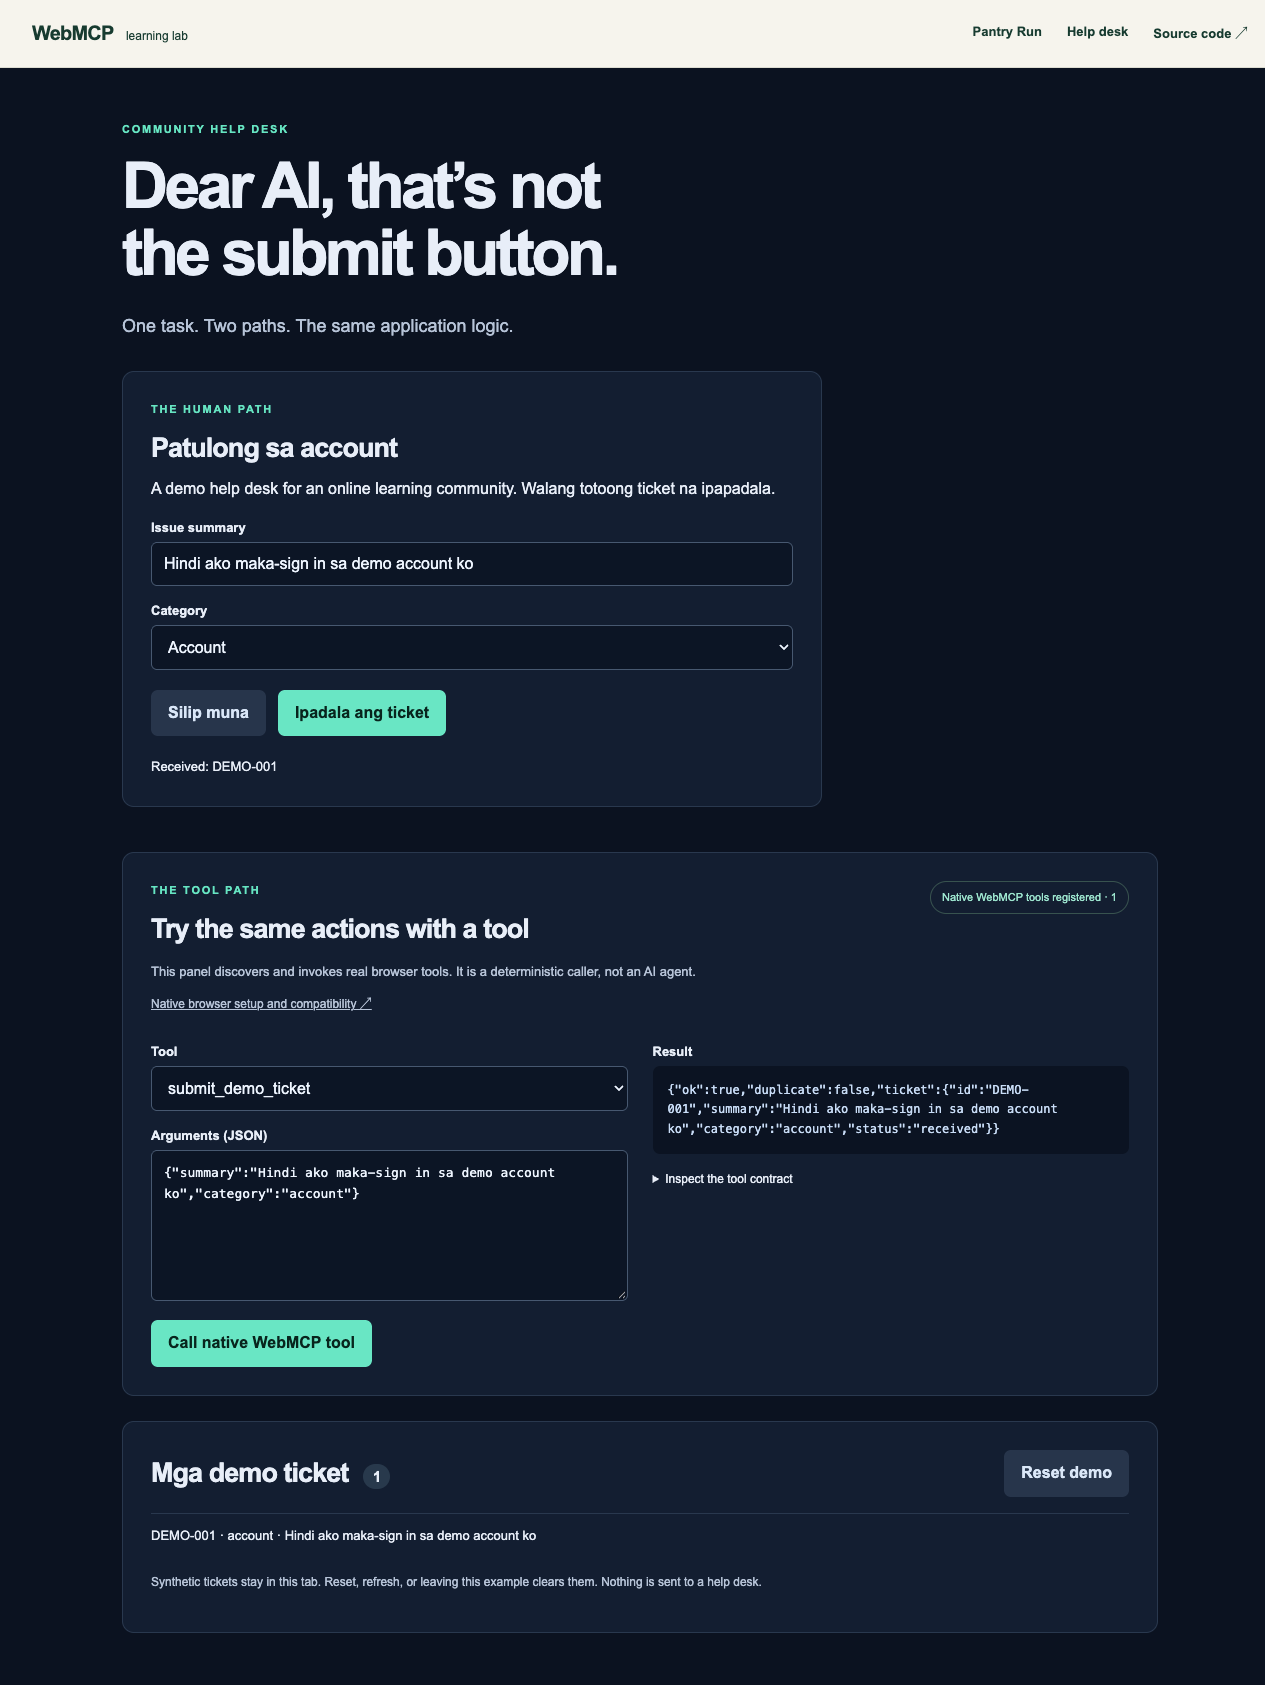
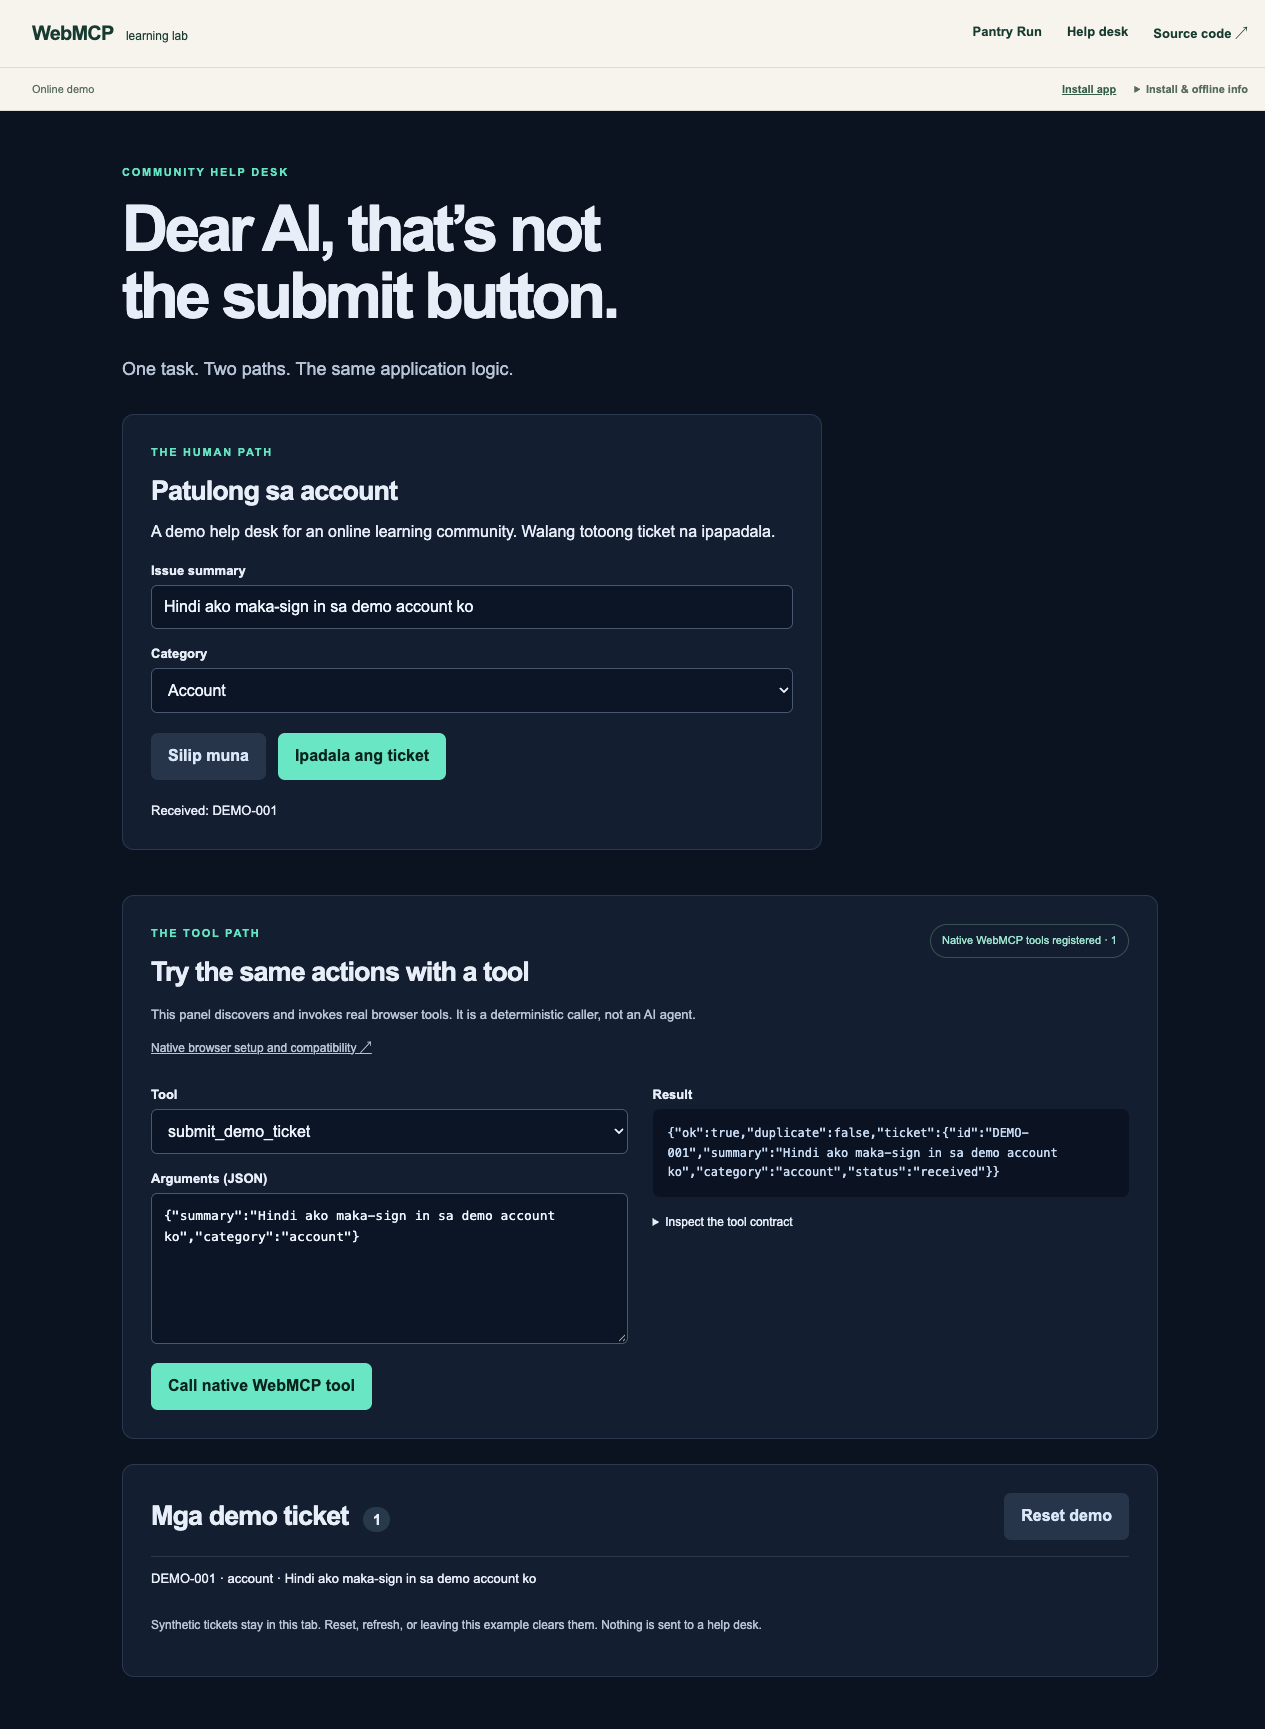
Document verified public deployment and PWA browser checks

diff --git a/docs/VERIFICATION.md b/docs/VERIFICATION.md
@@ -45,10 +45,18 @@ Reviewed desktop (1280 × 1000 viewport, full page) and mobile (390 × 844 viewp
 
 The screenshot files show deterministic native test calls, not an LLM conversation.
 
+## Public deployment checks
+
+After owner-approved removal of Vercel Authentication for this project only, verified [the production site](https://webmcp-learning-lab.vercel.app) without cookies or authentication. `/`, `/shop`, `/help-desk`, `/manifest.webmanifest`, `/sw.js`, `/offline.html`, and 192px/512px icons returned HTTP 200 with expected content types. The worker has `no-cache, no-store, must-revalidate` headers.
+
+`TEST_BASE_URL=https://webmcp-learning-lab.vercel.app npm run test:browser` passed the full native and fallback suites on the public HTTPS origin: shared UI/tool state, ₱489 review, cancel/invalidation/confirmation, stock and reset/reload, route cleanup, desktop/mobile layouts, browser installability checks, five-file static-only cache, offline explanation/icon, paused writes, review cancellation on disconnect, fresh state after reconnect, and update checks without silent reload. No captured app exceptions or console errors.
+
+Also opened the public site in the ordinary Edge profile: it loads without a login wall, offers **Install app**, correctly labels WebMCP as rehearsal, and shows the expected ₱489 mock review. Native mode was separately tested with the experimental feature explicitly enabled. No real payment, address, or order service exists.
+
 ## Limits
 
 - A real LLM agent's tool discovery, choices, handling of missing information, and browser-extension integration have not been tested. The panel is a deterministic caller.
-- A production Vercel deployment reached READY, but inherited Vercel Authentication redirects unauthenticated visitors to SSO (HTTP 302). Public app-route, PWA, and WebMCP checks are blocked by that access gate. No public-origin trial token or custom HTTPS event domain has been configured. Native WebMCP may need supported browser settings or a valid trial; HTTPS alone does not enable it. See [deployment status](DEPLOYMENT.md#current-deployment).
+- No origin-trial token is configured. Native public-origin tests used a disposable Edge profile with `--enable-blink-features=WebMCP`; the ordinary profile correctly showed rehearsal mode. This does not imply native WebMCP support in every attendee browser. See [deployment status](DEPLOYMENT.md#current-deployment).
 - Only the listed browser/runtime/OS were tested. Other browsers and assistive technologies are not verified. Responsive and focus checks are not a complete accessibility audit.
 - The cart and confirmation model is a teaching example in browser memory, not production commerce authorization or payment security.
 

diff --git a/docs/DEPLOYMENT.md b/docs/DEPLOYMENT.md
@@ -7,11 +7,13 @@ The repository contains a standard Next.js App Router app, pinned to Next.js 16.
 - Workspace: `andresitovidauaras-projects` (`team_pr8PN0NhxAU1wAgBU9IR5CTy`).
 - New project: `webmcp-learning-lab` (`prj_WWrwDuLHcJ9cGfzLeHzEGajWtjTo`), linked to this repository's `main` branch.
 - Production address: [https://webmcp-learning-lab.vercel.app](https://webmcp-learning-lab.vercel.app).
-- The first PWA deployment reached **READY**. The new project's Node version is set to the tested **24.x** runtime.
-- **Public access is blocked** by inherited Vercel Authentication: `ssoProtection.deploymentType = all_except_custom_domains`. An unauthenticated request to its production alias redirects to Vercel SSO (HTTP 302).
-- No protection settings, credentials, trusted sources, bypass links, existing projects, or existing access have been changed. Public browser/PWA/WebMCP verification cannot be completed while that gate remains.
+- Production deployment is **READY**, using the tested **Node 24.x** runtime.
+- **Public access verified:** unauthenticated requests to `/`, `/shop`, `/help-desk`, the manifest, service worker, offline explanation, and icons return HTTP 200 without an SSO redirect.
+- Vercel Authentication was disabled **only for this project**, with the owner's approval. Password protection, trusted sources/IP settings, other projects, and unrelated security settings were not changed.
+- Public-origin native/fallback shopping and help-desk flows, PWA manifest/installability checks, exact cache contents, offline safeguards, and same-version update checks passed in disposable Edge profiles.
+- The ordinary Edge profile offers installation and correctly reports rehearsal mode. The native test profile used `--enable-blink-features=WebMCP`; no origin-trial token is configured, so native availability for ordinary attendees is still browser-dependent.
 
-Making only this app public, or using an appropriate authorized custom domain, needs a separate access decision. The local native/fallback/PWA checks do not prove that attendees can reach the protected deployment.
+The repo's `main` branch automatically deploys through its Git connection. [The verification record](VERIFICATION.md) distinguishes public HTTP/browser results from remaining OS-installation and real-agent limits.
 
 ## Build and check locally
 

diff --git a/docs/PWA.md b/docs/PWA.md
@@ -4,11 +4,11 @@ A Progressive Web App (PWA) is an installable website. Installation adds a home-
 
 ## Install
 
-Open the public HTTPS site in a supporting browser. Use the app's **Install app** button if offered, the browser's installation menu, or **Add to Home Screen** / **Add to Dock**. The exact UI depends on the browser and operating system. Declining installation does not prevent normal use.
+Open [the public HTTPS site](https://webmcp-learning-lab.vercel.app) in a supporting browser. Use the app's **Install app** button if offered, the browser's installation menu, or **Add to Home Screen** / **Add to Dock**. The exact UI depends on the browser and operating system. Declining installation does not prevent normal use.
 
 `app/manifest.js` provides a stable app ID, root scope/start URL, standalone display mode, colors, shortcuts to both examples, PNG icons at 192px and 512px, and a padded maskable icon. An Apple touch icon is also included. `scripts/generate-icons.py` regenerates these original geometric icons without an image service or extra package.
 
-Browser installability checks passed in Edge 157.0.4341.42, but a complete OS installation and iOS/Android installation have not been performed. Browser install promotion can also depend on engagement or platform policy.
+Browser installability checks passed on both localhost and the public HTTPS origin in Edge 157.0.4341.42; the ordinary browser also offered an Install app button, but a complete OS installation and iOS/Android installation have not been performed. Browser install promotion can also depend on engagement or platform policy.
 
 ## Offline means an explanation, not an old checkout
 

diff --git a/README.md b/README.md
@@ -103,7 +103,7 @@ CHROME_BIN="/Applications/Microsoft Edge.app/Contents/MacOS/Microsoft Edge" npm 
 
 The browser test checks both examples in native and rehearsal modes using temporary profiles. It fails if native support does not work; it does not count fallback as a native pass.
 
-The app is deployed at [webmcp-learning-lab.vercel.app](https://webmcp-learning-lab.vercel.app) in the selected Vercel workspace. **It currently requires Vercel sign-in** because of inherited deployment protection, so it is not yet publicly accessible to attendees. See [deployment status and requirements](docs/DEPLOYMENT.md).
+The app is live at **[webmcp-learning-lab.vercel.app](https://webmcp-learning-lab.vercel.app)**—no sign-in needed. Try [Pantry Run](https://webmcp-learning-lab.vercel.app/shop) or the [help desk](https://webmcp-learning-lab.vercel.app/help-desk), and install it from a supporting browser. See [deployment details](docs/DEPLOYMENT.md).
 
 ## Learn more
 
